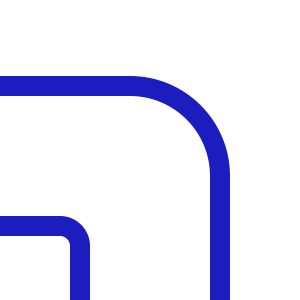
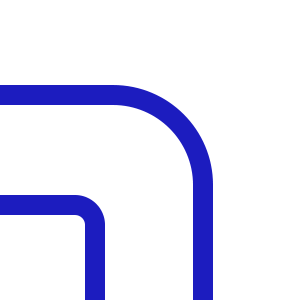
fixed board and changed block and margin size

Changed region(s): [[0.0, 0.24, 0.78, 1.0], [0.0, 0.63, 0.36, 1.0]]

diff --git a/gamemanager.cpp b/gamemanager.cpp
@@ -9,35 +9,47 @@ GameManager::GameManager(QWidget *parent)
     boardInstance.show(); //show the board
 
 
-    //the smallpellets will be from 01 to 100 except for 31 & 36 then from 197 to 330 except for 243 & 264
-    //I will ignore these positions for now: 101, 104, 105, 108, 109, 120, 121, 126, 127, 136, 143, 156, 163, 172, 173, 176, 177, 188, 189, 192, 193, 196
+    //the smallpellets will be from 01 to 94 except for 31 & 36 then from 186 to 309 except for 243 & 264
+    //and these positions : 95, 105, 106, 109, 110, 113, 114, 125, 126, 131, 138, 151, 158, 161, 162, 173, 174, 177, 178, 181, 182, 185
     //1-) we can get boarddata from board class and check which i,j is suitable to set pos for small pellets.
     //2-) we can set boardimages to smallpellets and set position of boardimages. we will also have to use boardData.
     //I will use the first method!
 
-    //TO DO: should set blockDim and margin and use them instead of 16 and 20 in here
+    int tempArr[] ={95, 105, 106, 109, 110, 113, 114, 125, 126, 131, 138, 151, 158, 161, 162, 173, 174, 177, 178, 181, 182, 185};
+
+    //TO DO: should set blockDim and margin and use them instead of 20 and 20 in here
     int tempItr = 0 ;
     int tempItr2= 0;
     for(int i=0; i<31; i++){
         for(int j=0; j<28; j++){
-            if( boardInstance.getBoardData(i,j) > 0 && boardInstance.getBoardData(i,j) < 101 && boardInstance.getBoardData(i,j) != 31 && boardInstance.getBoardData(i,j) != 36){
-                smallPelletsarr[tempItr].setPos(16*j + 20, 16*i + 20);
+            if( boardInstance.getBoardData(i,j) > 0 && boardInstance.getBoardData(i,j) < 95 && boardInstance.getBoardData(i,j) != 31 && boardInstance.getBoardData(i,j) != 36){
+                smallPelletsarr[tempItr].setPos(20*j + 30, 20*i + 30);
                 boardInstance.scene()->addItem(&smallPelletsarr[tempItr]);
                 tempItr++;
-            }else if(boardInstance.getBoardData(i,j) > 196 && boardInstance.getBoardData(i,j) < 331 && boardInstance.getBoardData(i,j) != 243 && boardInstance.getBoardData(i,j) != 264){
-                smallPelletsarr[tempItr].setPos(16*j + 20, 16*i + 20);
+            }else if(boardInstance.getBoardData(i,j) > 185 && boardInstance.getBoardData(i,j) < 310 && boardInstance.getBoardData(i,j) != 222 && boardInstance.getBoardData(i,j) != 243){
+                smallPelletsarr[tempItr].setPos(20*j + 30, 20*i + 30);
                 boardInstance.scene()->addItem(&smallPelletsarr[tempItr]);
                 tempItr++;
+            }else{
+                for(int k=0; k<22; k++){
+                    if(tempArr[k] == boardInstance.getBoardData(i,j)){
+                        smallPelletsarr[tempItr].setPos(20*j + 30, 20*i + 30);
+                        boardInstance.scene()->addItem(&smallPelletsarr[tempItr]);
+                        tempItr++;
+                    }
+                }
             }
 
-            if(boardInstance.getBoardData(i,j) == 31 || boardInstance.getBoardData(i,j) == 36 || boardInstance.getBoardData(i,j) == 243 || boardInstance.getBoardData(i,j) == 264 ){
-                powerPelletsarr[tempItr2].setPos(16*j + 20, 16*i + 20);
+
+            if(boardInstance.getBoardData(i,j) == 31 || boardInstance.getBoardData(i,j) == 36 || boardInstance.getBoardData(i,j) == 243 || boardInstance.getBoardData(i,j) == 222 ){
+                powerPelletsarr[tempItr2].setPos(20*j + 30, 20*i + 30);
                 boardInstance.scene()->addItem(&powerPelletsarr[tempItr2]);
                 tempItr2++;
             }
 
         }
     }
+
 
 
 

diff --git a/board.h b/board.h
@@ -12,8 +12,8 @@ class board : public QGraphicsView
 private:
     QGraphicsScene gameScene; //this is the main game scene of our view, we can add multiple scenes if we want later
     int** boardData; //array to save the board.txt
-    int blockDim = 16; //the length and width of each row and column in pixels (dimensions of each row and col in pixels)
-    int margin = 20; //margin from the board to the view borders, it will be the same from all sides for simplicity
+    int blockDim = 20; //the length and width of each row and column in pixels (dimensions of each row and col in pixels)
+    int margin = 30; //margin from the board to the view borders, it will be the same from all sides for simplicity
     int sceneDim = 31*blockDim + 2*margin; //this is the dimension of the scene, the length and width of the scene, it will be a square for simplicity
     QGraphicsPixmapItem **boardImages;
 

diff --git a/text.cpp b/text.cpp
@@ -2,11 +2,11 @@
 
 text::text()
 {
-    QFont arcade("Emulogic", 8);
+    QFont arcade("Emulogic", 12);
     setFont(arcade);
     display = "READY!";
     setPlainText(display);
-    setPos(13*16, 18*16);        //13*blockdim, 18*blockdim
+    setPos(13*20, 17*20);        //13*blockdim, 18*blockdim
     setDefaultTextColor(QColor(254, 232, 0));
 }
 
@@ -14,5 +14,5 @@ void text::lost(){
     display = "GAME OVER";
     setDefaultTextColor(Qt::red);
     setPlainText(display);
-    setPos(11*16, 18*16);      //11*blockdim, 18*blockdim
+    setPos(11*20, 18*20);      //11*blockdim, 18*blockdim
 }

diff --git a/collectables.h b/collectables.h
@@ -8,7 +8,7 @@ class collectables : public QGraphicsPixmapItem{
 protected:
     QPixmap sprite; //this will store the image "sprite" for the collectable
     int value; //value added to the score once the collectable has been collected by the player
-    int blockDim = 16; //this defines the dimensions of the collectables
+    int blockDim = 20; //this defines the dimensions of the collectables
 public:
     collectables();
     //virtual void OnCollision();

diff --git a/lives.cpp b/lives.cpp
@@ -10,7 +10,7 @@ lives::lives(QGraphicsScene* scene, int n)
     for(int i =0; i < n-1; i++)
     {
         shapes[i].setPixmap(playerImage);
-        shapes[i].setPos(margin+blockDim*i, 516);      //, 20+i*blockdim, sceneDim
+        shapes[i].setPos(margin+blockDim*i, 31*blockDim+ margin);      //, 20+i*blockdim, sceneDim = 31*blockDim
         scene->addItem(&shapes[i]);
     }
     num = n;

diff --git a/gamemanager.h b/gamemanager.h
@@ -20,7 +20,7 @@ class GameManager : public QMainWindow
     Q_OBJECT
 private:
     board boardInstance;
-    smallPellets smallPelletsarr[228]; //better be dynamic?
+    smallPellets smallPelletsarr[240]; //better be dynamic?
     powerPellets powerPelletsarr[4];
     fruit fruitInsatnce;
     Inky *InkyInstant;

diff --git a/blinky.h b/blinky.h
@@ -7,8 +7,8 @@
 class Blinky:public Ghosts
 {
 private:
-    const int InitialRow=13;
-     const int InitialColumn=13;
+    const int InitialRow=14;
+     const int InitialColumn=11;
 public:
     Blinky(int** temp);
   //  void FollowPaceman() override; //will be defined later

diff --git a/lives.h b/lives.h
@@ -14,8 +14,8 @@ private:
     QGraphicsPixmapItem* shapes;
     QPixmap icon;
     QGraphicsScene* savedscene;
-    int blockDim = 16;
-    int margin = 20;
+    int blockDim = 20;
+    int margin = 30;
 public:
    lives(QGraphicsScene* scene, int n = 3);
    void loselife();

diff --git a/pinky.h b/pinky.h
@@ -5,8 +5,8 @@
 class Pinky: public Ghosts
 {
 private:
-    const int InitialRow=13;
-     const int InitialColumn=12;
+    const int InitialRow=14;
+     const int InitialColumn=13;
 public:
     Pinky(int** temp);
   //  void FollowPaceman() override; //will be defined later

diff --git a/inky.h b/inky.h
@@ -5,8 +5,8 @@
 class Inky:public Ghosts
 {
 private:
-    const int InitialRow=13;
-     const int InitialColumn=11;
+    const int InitialRow=14;
+     const int InitialColumn=12;
 public:
     Inky(int** temp);
   //  void FollowPaceman() override; //will be defined later

diff --git a/player.h b/player.h
@@ -16,8 +16,8 @@ private:
     int col;
     char direct;
     QString state;
-    int blockDim = 16;
-    int margin = 20;
+    int blockDim = 20;
+    int margin = 30;
 public:
     player();
     int getRow();

diff --git a/ghosts.h b/ghosts.h
@@ -25,8 +25,8 @@ protected:
     int row;
     int column;
     int value;
-    int blockDim = 16;
-    int margin = 20;
+    int blockDim = 20;
+    int margin = 30;
     QPixmap sprite;
     int** boardData;
 
